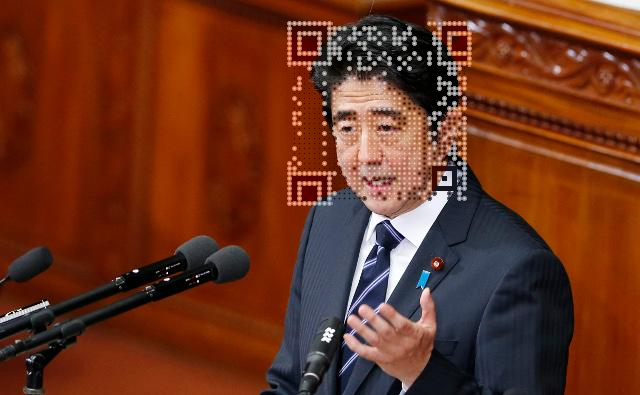
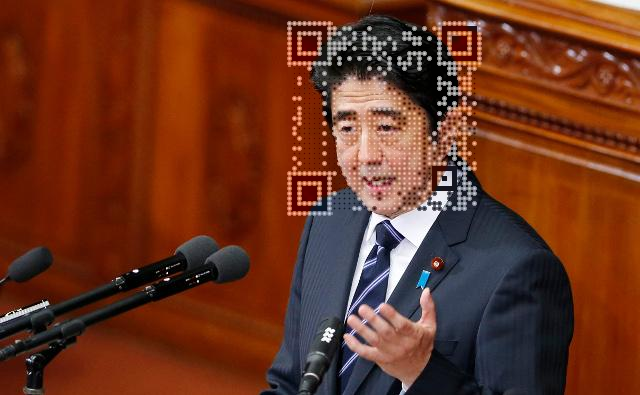
feat: 問題なく一貫して動作確認完了

diff --git a/src/main/java/com/qrcode/qrcodeapp/util/QRmain.java b/src/main/java/com/qrcode/qrcodeapp/util/QRmain.java
@@ -466,11 +466,11 @@ public class QRmain {
 		System.out.println("いけてる");
 		Mat image2_clone = image2.clone();
 
-//		int iconHeight = msize*modules1Side + 2*msize;
-//		int iconWidth = msize*modules1Side + 2*msize;
+		int iconHeight = msize*modules1Side + 2*msize;
+		int iconWidth = msize*modules1Side + 2*msize;
 		
-		int iconHeight = msize*modules1Side;
-		int iconWidth = msize*modules1Side;
+		// int iconHeight = msize*modules1Side;
+		// int iconWidth = msize*modules1Side;
 		//System.out.println("iconHeight = " +iconHeight+"  iconWidth = " +iconWidth);
 
 		double[][][] data_tr = new double[iconHeight][iconWidth][3];

diff --git a/src/main/java/com/qrcode/qrcodeapp/controller/RestApiController.java b/src/main/java/com/qrcode/qrcodeapp/controller/RestApiController.java
@@ -20,7 +20,7 @@ public class RestApiController {
     private String qr() {
     	
         String str_path = "src/main/resources/img/abe.jpg";
-        String str_data = "https://www.okayama-u.ac.jp/";
+        String str_data = "https://www.okayama-u.ac.jp";
         String str1 = "5";
         String str2 = "0";
         String str3 = "0";
